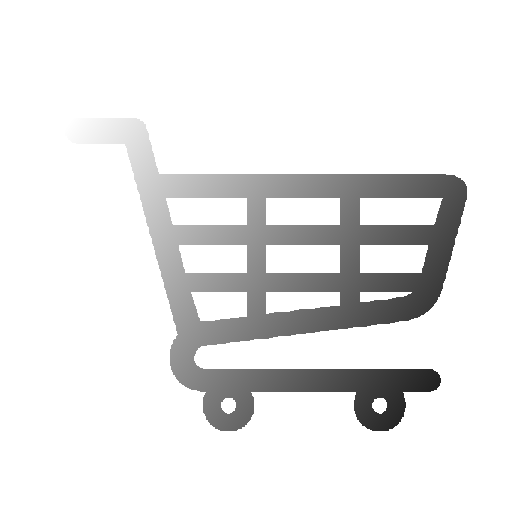
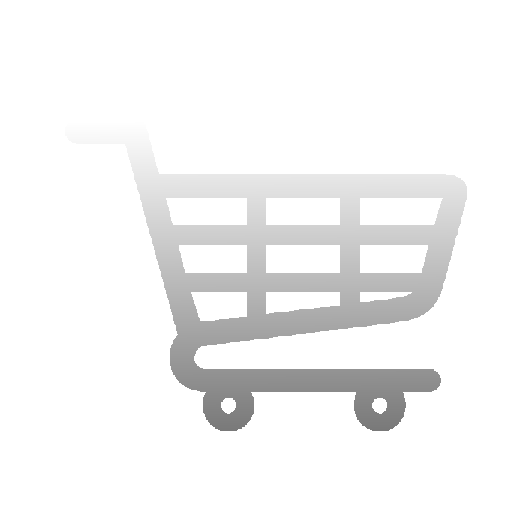
More updates to product cards. Can now click button to add to cart.

Changed region(s): [[0.2406, 0.2105, 0.9023, 0.6617], [0.4211, 0.6917, 0.8421, 0.812]]

diff --git a/src/Assets/Components/ProducDisplayCard.js b/src/Assets/Components/ProducDisplayCard.js
@@ -4,7 +4,12 @@ import NeoMorphicIcon from "./NeoMorphicIcon";
 import '../Styles/neomorphicStyles.css'
 import '../Styles/textStyles.css'
 import '../Styles/CardAnimation.css'
+import '../Styles/PurchaseButton.css'
+
 import { useNavigate } from "react-router-dom";
+import Spinner from "./Spinner";
+import AnimatedCheckmark from "./AnimatedCheckmark";
+import usePostCart from "../Hooks/usePostCart";
 
 export default function ProductDisplayCard({product, delay})
 {     
@@ -20,12 +25,46 @@ export default function ProductDisplayCard({product, delay})
       productseller
     } = product;
 
-      const navigate = useNavigate();
-      return (
+    const [mousedOver, setMousedOver] = React.useState(false);
+    const [addingToCart, setAddingToCart] = React.useState(false);
+    const [completedAddCart, setCompletedAddCart] = React.useState(false);
     
+    const [clicked, setClicked] = React.useState(false);
+
+    const[postingCart, setPostingCart] = usePostCart(product, 1);
+    const navigate = useNavigate();
+    
+    React.useEffect(()=>{
+      if(!completedAddCart && clicked)
+      {
+        if(addingToCart && !postingCart)
+        {
+          setPostingCart(true);
+          setAddingToCart(false);
+        }
+        else if(!addingToCart && !postingCart)
+        {
+          setCompletedAddCart(true)
+        }
+      }
+    }, [addingToCart, postingCart, completedAddCart])
+
+
+    const AddToCart = (e)=> {
+      if(!addingToCart && !completedAddCart && !postingCart)
+      {
+        setClicked(true);
+        setAddingToCart(true);
+        return;
+      }
+    }
+    
+    return (
         <div 
           className={`neomorphic-card${delay !== null && delay !== undefined && delay !== 0 ? ' card-animation' : ''}`} 
           style = {{animationDelay: delay !== null && delay !== undefined && delay !== 0 ? `${delay}s` : '0s'}}
+          onMouseOver={()=>{setMousedOver(true)}}
+          onMouseOut={()=>{setMousedOver(false)}}
           onClick={()=>{
             window.scrollTo({top: 0, left: 0, behavior: "instant"})
             navigate(
@@ -47,13 +86,23 @@ export default function ProductDisplayCard({product, delay})
         <div 
           className='title-text'
           style={{
-            fontSize: '1.6em',
+            fontSize: '1.4em',
             marginLeft: '20px',
             marginTop: '10px',
             alignSelf: 'flex-start'
           }}
         >{product.productname}</div>
-        
+
+        <div 
+          className='basic-text'
+          style={{
+            fontSize: '1em',
+            marginLeft: '20px',
+            alignSelf: 'flex-start'
+          }}
+        >{product.productseller}</div>
+
+
         {product.productisonsale ? 
         <div
           className="simple-row"
@@ -61,7 +110,7 @@ export default function ProductDisplayCard({product, delay})
           <div 
             className='title-text'
             style={{
-              fontSize: '1.3em',
+              fontSize: '1.2em',
               marginLeft: '20px',
               textAlign: "center"
             }}
@@ -78,28 +127,40 @@ export default function ProductDisplayCard({product, delay})
         <div 
         className='title-text'
         style={{
-          fontSize: '1.3em',
+          fontSize: '1.2em',
           marginLeft: '20px',
           alignSelf: 'flex-start',
           marginBottom: 'auto'
         }}
       >{`$${product.productprice}`}</div>
         }
-        <NeoMorphicIcon 
-          iconFilepath={`Images/shopping-cart` } 
-          style = {{
-            width: '50px',
-            height: '50px',
-            marginRight: "5%",
-            alignSelf: 'flex-end',
-            justifySelf: '', 
-            bottom: "10px",
-            top: 'auto'
-          }}
-        />
-
-        </div>
- 
         
+        <div 
+          className="purchase-button" 
+          style = {{bottom : mousedOver || addingToCart ? '0px' : '-55px'}}
+          onClick={(e)=>{
+            e.preventDefault();
+            e.stopPropagation();
+            AddToCart(e)
+          }}
+        >  
+          {!addingToCart && !clicked && !completedAddCart && <div className = "img-wrapper">
+          <img src ={`${process.env.PUBLIC_URL}/Images/shopping-cart.png`} />
+          </div>}
+          {!addingToCart && !clicked && !completedAddCart  && <div className="title-text">{"Add To Cart"}</div>}
+          {(addingToCart || postingCart) && <Spinner style={{justifySelf: 'center', alignSelf: 'center', left: 'calc(50% - 40px)'}}/>}
+          {!addingToCart && completedAddCart && 
+            <AnimatedCheckmark 
+              style = {{
+                position: 'relative', 
+                width: '25px', 
+                height: '25px',
+                left: 'calc(50% - 12.5px)'
+              }}
+              color={'rgba(225,225,225,1)'}  
+            />
+          }
+        </div>
+      </div>
   );
 }

diff --git a/src/Assets/Styles/PurchaseButton.css b/src/Assets/Styles/PurchaseButton.css
@@ -1,0 +1,51 @@
+.purchase-button{
+    position: absolute;
+    height: 50px;
+    width: 100%;
+    right: 0px;
+    left: 0px;
+    background-color: rgba(63, 162, 79, 1);
+    bottom: -55px;
+
+    display: flex;
+    flex-direction: row;
+    align-items: center;
+    justify-content: start;
+    
+    box-shadow: 
+        inset 0px 5px 5px rgba(255, 255, 255, 0.25 ),
+        inset 0px -5px 10px rgba(0, 0, 0, 0.3);
+    border-top: 1px solid rgba(8,89,10,1);
+    transition: all 0.25s ease;
+
+    z-index: 2;
+}
+
+.purchase-button > .img-wrapper> img{
+    position: relative;
+
+    height: 80%;
+    aspect-ratio: 1 / 1;
+}
+
+.purchase-button > .img-wrapper{
+    position: absolute;
+
+    display: flex;
+    justify-content: center;
+    align-items: center;
+
+    height: 50%;
+    aspect-ratio: 1 / 1;
+    margin-left: 15px;
+
+    background-color: rgba(0, 0, 0, 0.6);
+    border-radius: 5px;
+    border: 1px solid rgba(210, 210, 210, 1);
+}
+
+.purchase-button > .title-text{
+    flex-grow: 1;
+    margin-left: 0;
+    background-image: linear-gradient(white, rgb(190, 190, 190));
+}

diff --git a/src/Assets/Components/AnimatedCheckmark.js b/src/Assets/Components/AnimatedCheckmark.js
@@ -1,0 +1,22 @@
+import React from "react";
+import '../Styles/AnimatedCheckmark.css'
+
+export default function AnimatedCheckmark({style, color})
+{
+    return (
+        <div style = {{...style}}>
+            <svg 
+                xmlns="http://www.w3.org/2000/svg" 
+                enableBackground="new 0 0 24 24" 
+                id="Layer_1" 
+                version="1.0" 
+                viewBox="0 0 24 24" 
+            >
+                    <polyline className="path" fill="none" points="20,6 9,17 4,12" stroke={color !== null && color !== undefined ? `${color}`: 'rgba(255, 255, 255, 1)'} strokeMiterlimit="10" strokeWidth="2"/>
+            </svg>
+        </div>
+        
+    )
+
+
+}

diff --git a/src/Assets/Styles/AnimatedCheckmark.css b/src/Assets/Styles/AnimatedCheckmark.css
@@ -1,0 +1,17 @@
+  svg {
+    width: 100%;
+    height: 100%;
+  }
+  
+  .path {
+    stroke-linecap: round;
+    stroke-dasharray: 27;
+    stroke-dashoffset: -23;
+    animation: dash 500ms ease forwards;
+  }
+  
+  @keyframes dash {
+    to {
+      stroke-dashoffset: 0;
+    }
+  }

diff --git a/src/Assets/Styles/neomorphicStyles.css b/src/Assets/Styles/neomorphicStyles.css
@@ -198,6 +198,7 @@ body{
     flex-direction: column;
     align-items: center;
     z-index: 1;
+    overflow: hidden;
 }
 
 .image-display{
